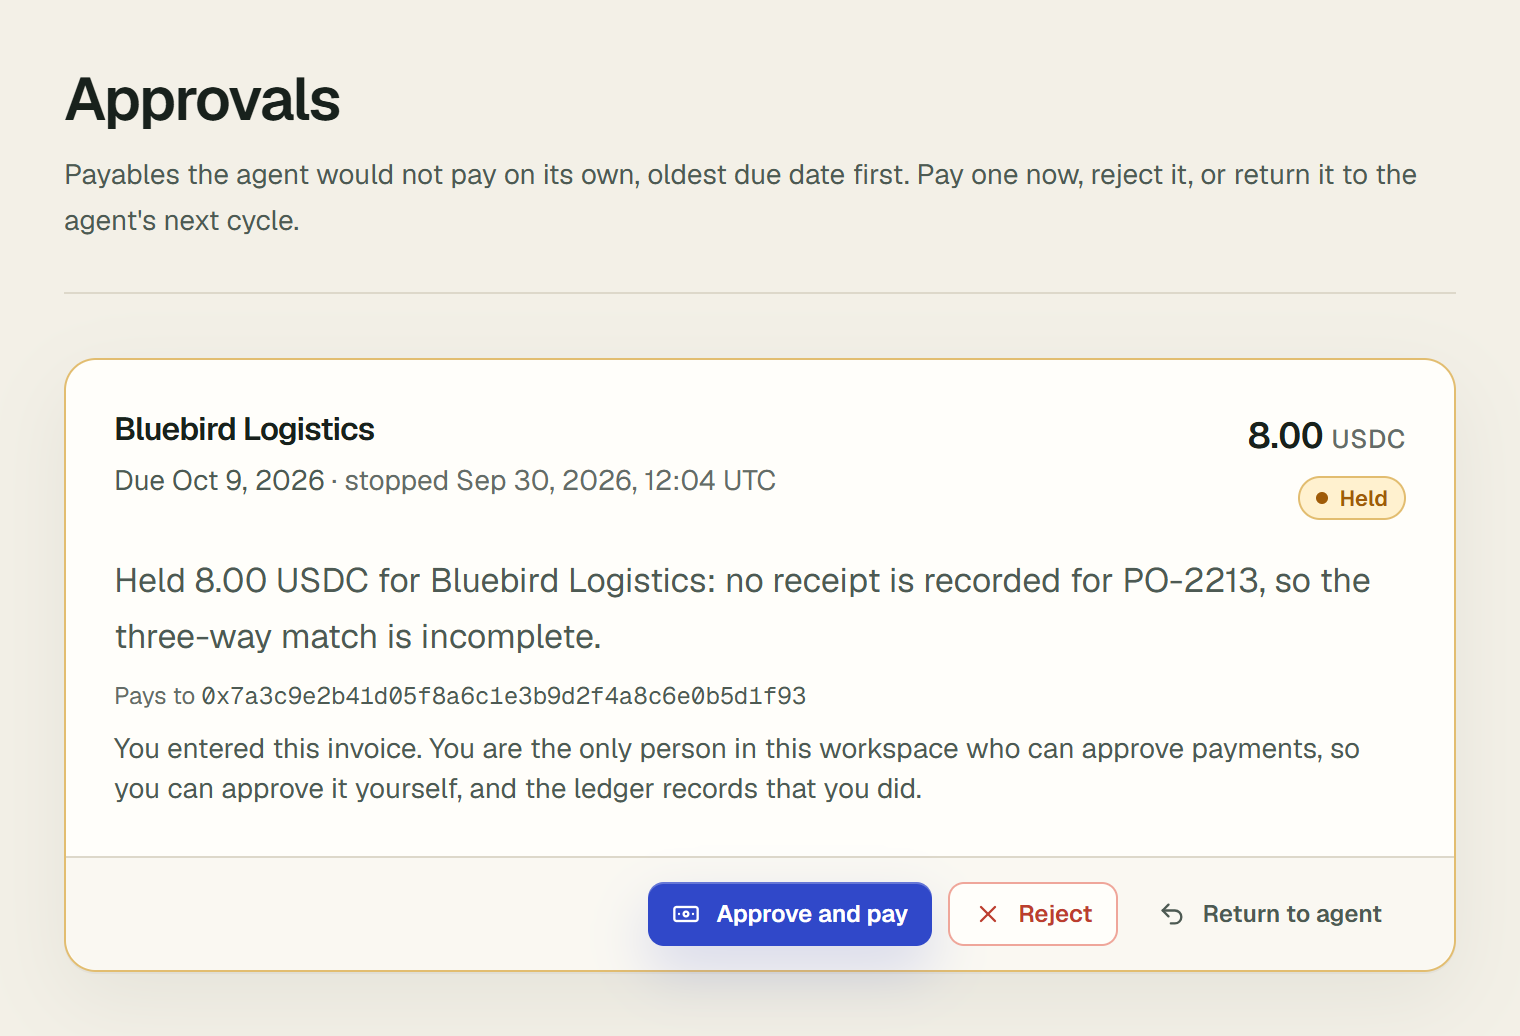
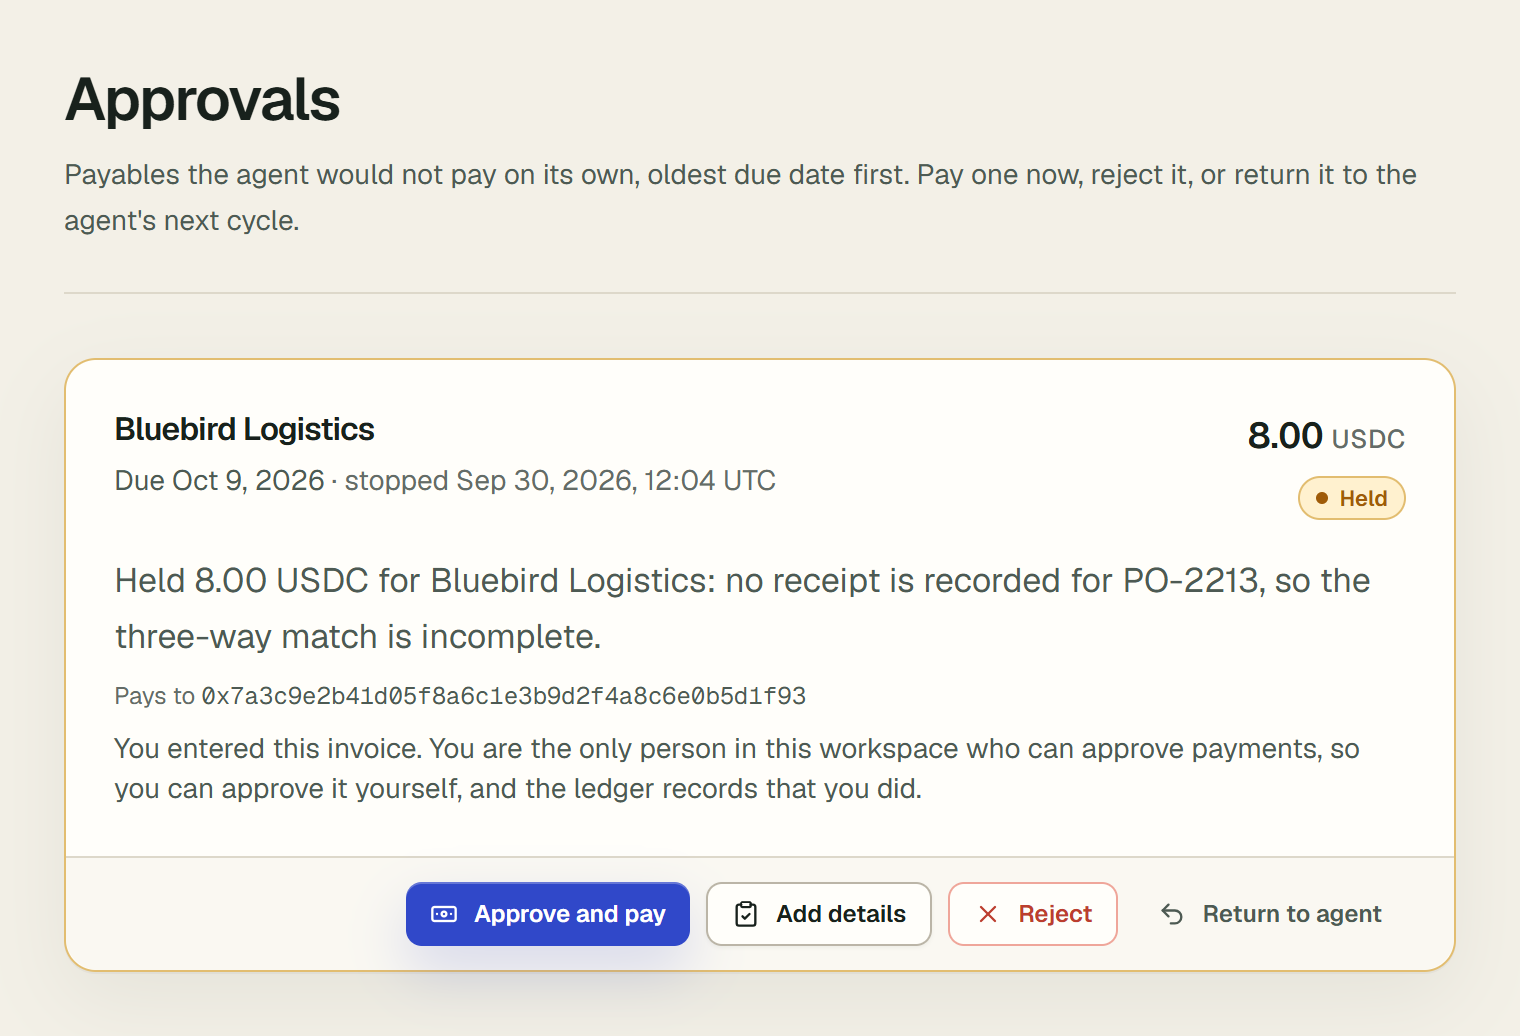
Document adding details to a held payable
The first-payment guide's Approvals step gains "Add what the agent was
missing", with a screenshot of the dialog; the sole-approver screenshot is
taken again with the new button. The changelog lists the
invoice_details_added ledger action and the details_added event kind.

Changed region(s): [[0.2474, 0.834, 0.6184, 0.9266]]

diff --git a/src/app/docs-shots/shots.tsx b/src/app/docs-shots/shots.tsx
@@ -233,6 +233,19 @@ const HELD: WaitingPayable = {
   currency: "USDC",
   payeeChain: "ARC-TESTNET",
   bridgeFeeUsdc: null,
+  poReference: "PO-2213",
+  goodsReceived: false,
+  addedSinceDecision: null,
+};
+
+/** A payable the agent asked about because nothing of its three-way match is on file (complete held invoice). */
+const AWAITING: WaitingPayable = {
+  ...HELD,
+  id: "00000000-0000-4000-8000-0000000000e3",
+  status: "awaiting_info",
+  reasoning: "Asked for more information before paying 8.00 USDC to Bluebird Logistics: no purchase order is on file and no receipt is recorded, so the three-way match is incomplete.",
+  explanation: "Asked for more information before paying 8.00 USDC to Bluebird Logistics: no purchase order is on file and no receipt is recorded, so the three-way match is incomplete.",
+  poReference: null,
 };
 
 function HashChain({ entries }: { entries: LedgerEntry[] }) {
@@ -480,7 +493,18 @@ export const DOCS_SHOTS = {
     sub: "Payables the agent would not pay on its own, oldest due date first. Pay one now, reject it, or return it to the agent's next cycle.",
     render: function OwnApprovalShot() {
       // The workspace's only approver, looking at a payable they entered themselves (sole approver R5).
-      return <ApprovalCard orgSlug={SLUG} payable={{ ...HELD, createdBy: "docs-sample-owner" }} canDecide viewerId="docs-sample-owner" sandbox={false} soleApprover />;
+      return (
+        <ApprovalCard orgSlug={SLUG} payable={{ ...HELD, createdBy: "docs-sample-owner" }} canDecide canEdit viewerId="docs-sample-owner" sandbox={false} soleApprover />
+      );
+    },
+  },
+  "first-payment-add-details": {
+    guide: "first-payment",
+    page: "approvals",
+    sub: "Payables the agent would not pay on its own, oldest due date first. Pay one now, reject it, or return it to the agent's next cycle.",
+    render: function AddDetailsShot() {
+      // An owner adding what the agent asked for (complete held invoice R1, R2): the script opens the dialog and fills it.
+      return <ApprovalCard orgSlug={SLUG} payable={AWAITING} canDecide canEdit viewerId="docs-sample-owner" sandbox={false} />;
     },
   },
   "first-payment-onchain-limit": {

diff --git a/tests/docs-guides.test.ts b/tests/docs-guides.test.ts
@@ -294,6 +294,15 @@ const QUOTED: Record<GuideSlug, Array<readonly [string, string]>> = {
     ["Pay now", APPROVAL_CARD],
     ["Reject", APPROVAL_CARD],
     ["Return to agent", APPROVAL_CARD],
+    ["Add details", APPROVAL_CARD],
+    ["Goods or services received", APPROVAL_CARD],
+    ["Since the agent stopped it", APPROVAL_CARD],
+    ["The agent decides it again at its next cycle, usually within a minute.", APPROVAL_CARD],
+    ["Details added. The agent usually decides it again within a minute.", "src/app/actions/approvals.ts"],
+    ["invoice_details_added", "src/lib/agent/approvals.ts"],
+    ["invoice_reopened", "src/lib/agent/orchestrator.ts"],
+    ["Awaiting information", APPROVAL_CARD],
+    ["Paid on time with no person involved", "src/components/open/OpenNumbersTable.tsx"],
     ["You created this invoice", APPROVAL_CARD],
     ["You entered this invoice. You are the only person in this workspace who can approve payments, so you can approve it yourself, and the ledger records that you did.", APPROVAL_CARD],
     ["It also records that you entered it yourself, as the workspace's only approver.", APPROVAL_CARD],
